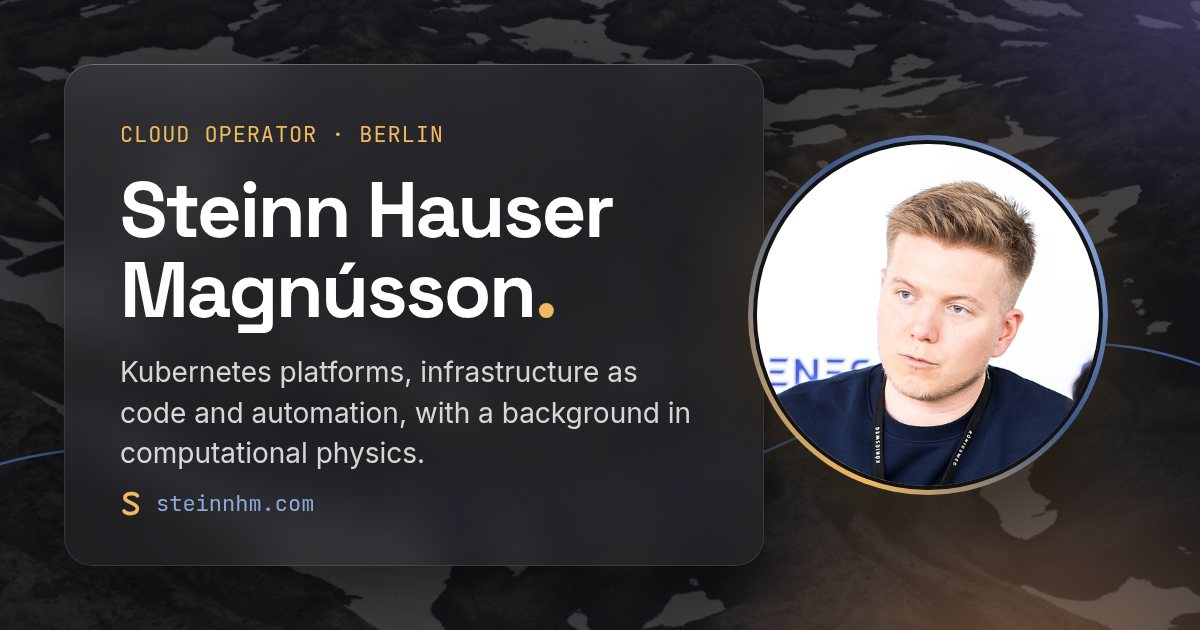
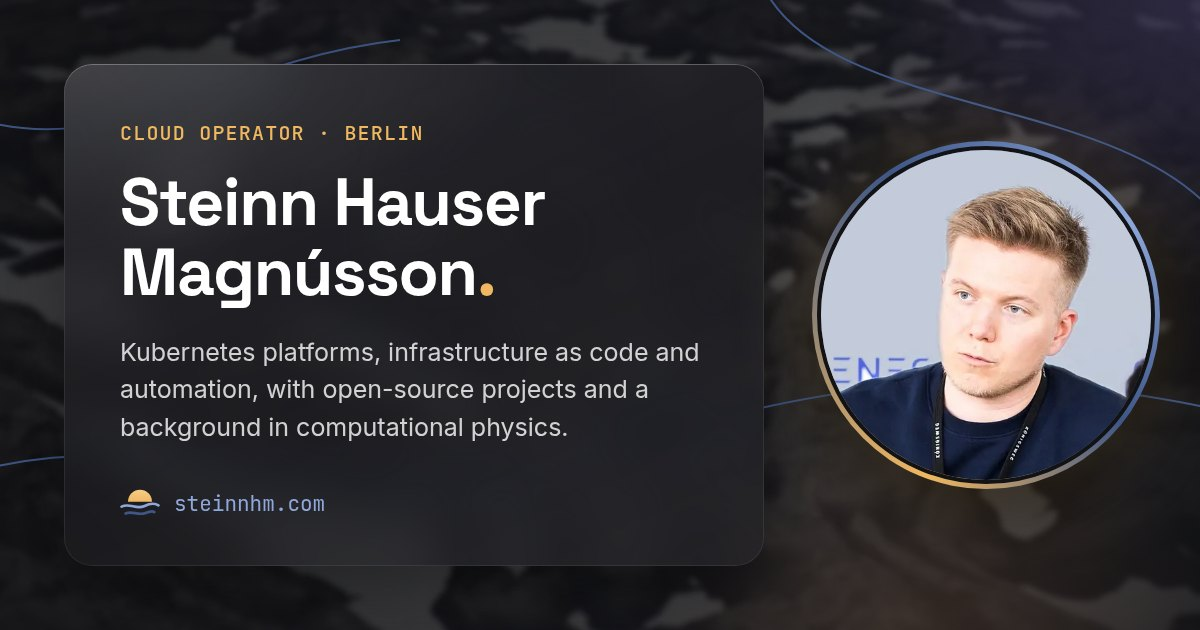
feature: low sun over contour lines replaces the "S" monogram
The site mark is now a gold sun setting over two blue contour lines, drawn
from the palette and the background curves. It is the favicon, the 32px
and 180px icons (the touch icon is full bleed, as iOS rounds it) and the
nav mark, where the sun rises on hover or focus.

The nav draws the same artwork as public/favicon.svg, and assets.test.tsx
now fails if the two differ (checked by changing one stroke width).

The link preview is re-rendered with the new mark and the graded portrait.
The README now documents the mark and gives the real image sizes (the
portrait is 480px, not 560px).

diff --git a/src/assets.test.tsx b/src/assets.test.tsx
@@ -1,7 +1,13 @@
-// Image budget: keeps the site fast to load. Bundled images must be WebP,
-// small individually and small in total. Resize and re-encode new images
-// before adding them (see README, "Images").
+// Static assets: the image budget keeps the site fast to load (bundled
+// images must be WebP, small individually and small in total; resize and
+// re-encode new images before adding them, see README, "Images"), the nav
+// mark matches the favicon, and the fonts are self-hosted.
+import { render } from "@testing-library/preact";
+// Load the React compatibility layer, as the site does, so camelCase SVG
+// props (strokeWidth) render as their attributes (stroke-width).
+import "preact/compat";
 import { describe, expect, it } from "vitest";
+import { Mark } from "./components/Icons";
 
 // Every bundled image, inlined as a data URL so its size can be measured.
 // The raw camera originals in src/assets/ are git-ignored and not bundled.
@@ -30,6 +36,31 @@ describe("image budget", () => {
   it("keeps all images together at most 250 KB", () => {
     const total = entries.reduce((sum, [, url]) => sum + bytes(url), 0);
     expect(total).toBeLessThanOrEqual(250 * KB);
+  });
+});
+
+describe("brand mark", () => {
+  // The nav mark and the favicon are two copies of one drawing. Compare the
+  // sun and the contour lines (the favicon's tile rects are left out).
+  const shapes = (root: ParentNode) =>
+    [...root.querySelectorAll("circle, path")].map((el) =>
+      ["cx", "cy", "r", "d", "stroke", "stroke-width"]
+        .map((a) => el.getAttribute(a))
+        .join(" "),
+    );
+
+  it("draws the same artwork in the nav as in favicon.svg", () => {
+    const [svg] = Object.values(
+      import.meta.glob<string>("../public/favicon.svg", {
+        query: "?raw",
+        import: "default",
+        eager: true,
+      }),
+    );
+    const favicon = new DOMParser().parseFromString(svg, "image/svg+xml");
+    const { container } = render(<Mark />);
+    expect(shapes(favicon)).toHaveLength(3);
+    expect(shapes(container)).toEqual(shapes(favicon));
   });
 });
 

diff --git a/src/components/Icons.tsx b/src/components/Icons.tsx
@@ -54,29 +54,49 @@ export const DownloadIcon = () => (
   </svg>
 );
 
-// Site monogram: a gold "S" drawn as one stroke, like the background curves.
-// Same artwork as public/favicon.svg, without the tile.
-export const Monogram = () => (
+// Site mark: a low sun setting over two contour lines, in the sun gold and
+// blues of the palette. Same artwork as public/favicon.svg, without the tile
+// (assets.test.tsx checks that they match). The sun is clipped at the horizon
+// and has the class "mark-sun", so the nav can let it rise on hover.
+export const Mark = () => (
   <svg
     xmlns="http://www.w3.org/2000/svg"
-    viewBox="14 10 36 46"
+    viewBox="7 21 50 37"
     width="100%"
     height="100%"
     aria-hidden="true"
   >
     <defs>
-      <linearGradient id="monogram-gold" x1="0" y1="0" x2="0" y2="1">
+      <linearGradient id="mark-sun" x1="0" y1="0" x2="0" y2="1">
         <stop offset="0" stopColor="#f6cd85" />
         <stop offset="1" stopColor="#e9a443" />
       </linearGradient>
+      <clipPath id="mark-sky">
+        <rect width="64" height="38" />
+      </clipPath>
     </defs>
+    <g clipPath="url(#mark-sky)">
+      <circle
+        className="mark-sun"
+        cx="32"
+        cy="38"
+        r="15"
+        fill="url(#mark-sun)"
+      />
+    </g>
     <path
-      d="M42.5 19.5 C 39 14.5, 23 14, 22 22.5 C 21 31, 42.5 30.5, 42.5 40.5 C 42.5 50, 25 51, 20.5 44.5"
+      d="M9 44 C 19 39, 27 48, 37 43.5 S 51 40, 55 42.5"
       fill="none"
-      stroke="url(#monogram-gold)"
-      strokeWidth="6"
+      stroke="#8fa8dc"
+      strokeWidth="3.4"
       strokeLinecap="round"
-      strokeLinejoin="round"
+    />
+    <path
+      d="M14 52.5 C 22 49, 30 55.5, 39 52 S 48 50, 50 51"
+      fill="none"
+      stroke="#3f5787"
+      strokeWidth="3.4"
+      strokeLinecap="round"
     />
   </svg>
 );

diff --git a/src/components/TopNav.tsx b/src/components/TopNav.tsx
@@ -3,7 +3,7 @@ import { Link, NavLink, useLocation } from "react-router";
 import styled, { css } from "styled-components";
 import { socials } from "../content";
 import { breakpoints, colors, fonts, NAV_HEIGHT } from "../theme";
-import { GithubIcon, LinkedInIcon, Monogram, StackOverflowIcon } from "./Icons";
+import { GithubIcon, LinkedInIcon, Mark, StackOverflowIcon } from "./Icons";
 import ExternalLink from "./ExternalLink";
 import useActiveSection from "../hooks/useActiveSection";
 import { scrollToSection } from "./scrollToSection";
@@ -55,16 +55,20 @@ const Brand = styled.span`
   gap: 12px;
 
   svg {
-    width: 20px;
-    height: 26px;
+    width: 30px;
+    height: 22px;
     flex-shrink: 0;
+  }
+  /* The sun rises a little above the horizon on hover. */
+  .mark-sun {
     transition: transform 400ms ease;
   }
-  a:hover & svg {
-    transform: rotate(-8deg);
+  a:hover & .mark-sun,
+  a:focus-visible & .mark-sun {
+    transform: translateY(-4px);
   }
 
-  /* Phones: the monogram alone stands for Home, to make room for the
+  /* Phones: the mark alone stands for Home, to make room for the
      section links. */
   @media (max-width: ${breakpoints.mobile}) {
     span {
@@ -205,7 +209,7 @@ function TopNav() {
         className={pathname === "/" && !active ? "active" : undefined}
       >
         <Brand>
-          <Monogram />
+          <Mark />
           <span>Home</span>
         </Brand>
       </PlainLink>

diff --git a/vite.config.ts b/vite.config.ts
@@ -54,7 +54,7 @@ export default defineConfig({
     environment: "jsdom",
     setupFiles: ["./src/test/setup.ts"],
     globalSetup: ["./scripts/profile-readme.ts"],
-    // Stub CSS in tests, except fonts.css, which assets.test.ts reads.
+    // Stub CSS in tests, except fonts.css, which assets.test.tsx reads.
     css: { include: [/fonts\.css/] },
     // Use the same ESM builds as the browser (Node would otherwise pick the
     // CommonJS ones, whose require("react") bypasses the aliases), and

diff --git a/README.md b/README.md
@@ -103,11 +103,19 @@ To change the site's content:
 
 ### Images
 
-Images in `src/assets/photos/` and `src/assets/logos/` are WebP copies of
-the originals, encoded at the size they're displayed (logos 340px, portrait
-560px, backdrops 1280px plus an 800px variant for phones). `src/assets.test.ts`
-enforces the budget: WebP only, at most 100 KB per image and 250 KB in total.
-Keep the raw camera files out of git (see `.gitignore`).
+Images in `src/assets/photos/`, `src/assets/logos/` and
+`src/assets/projects/` are WebP copies of the originals, encoded at the size
+they're displayed (logos 340px, portrait 480px, backdrops 1280px plus an
+800px variant for phones, project screenshots 720-880px).
+`src/assets.test.tsx` enforces the budget: WebP only, at most 100 KB per
+image and 250 KB in total. Keep the raw camera files out of git (see
+`.gitignore`).
+
+The site mark (a low sun over two contour lines) is `public/favicon.svg`;
+the nav draws the same artwork (`Mark` in `src/components/Icons.tsx`), and
+`src/assets.test.tsx` fails if the two differ. `favicon-32.png`,
+`apple-touch-icon.png` (180px, full bleed) and `og-image.jpg` (1200×630)
+are rendered from it; re-render them when the mark changes.
 
 ## CI and deployment
 
